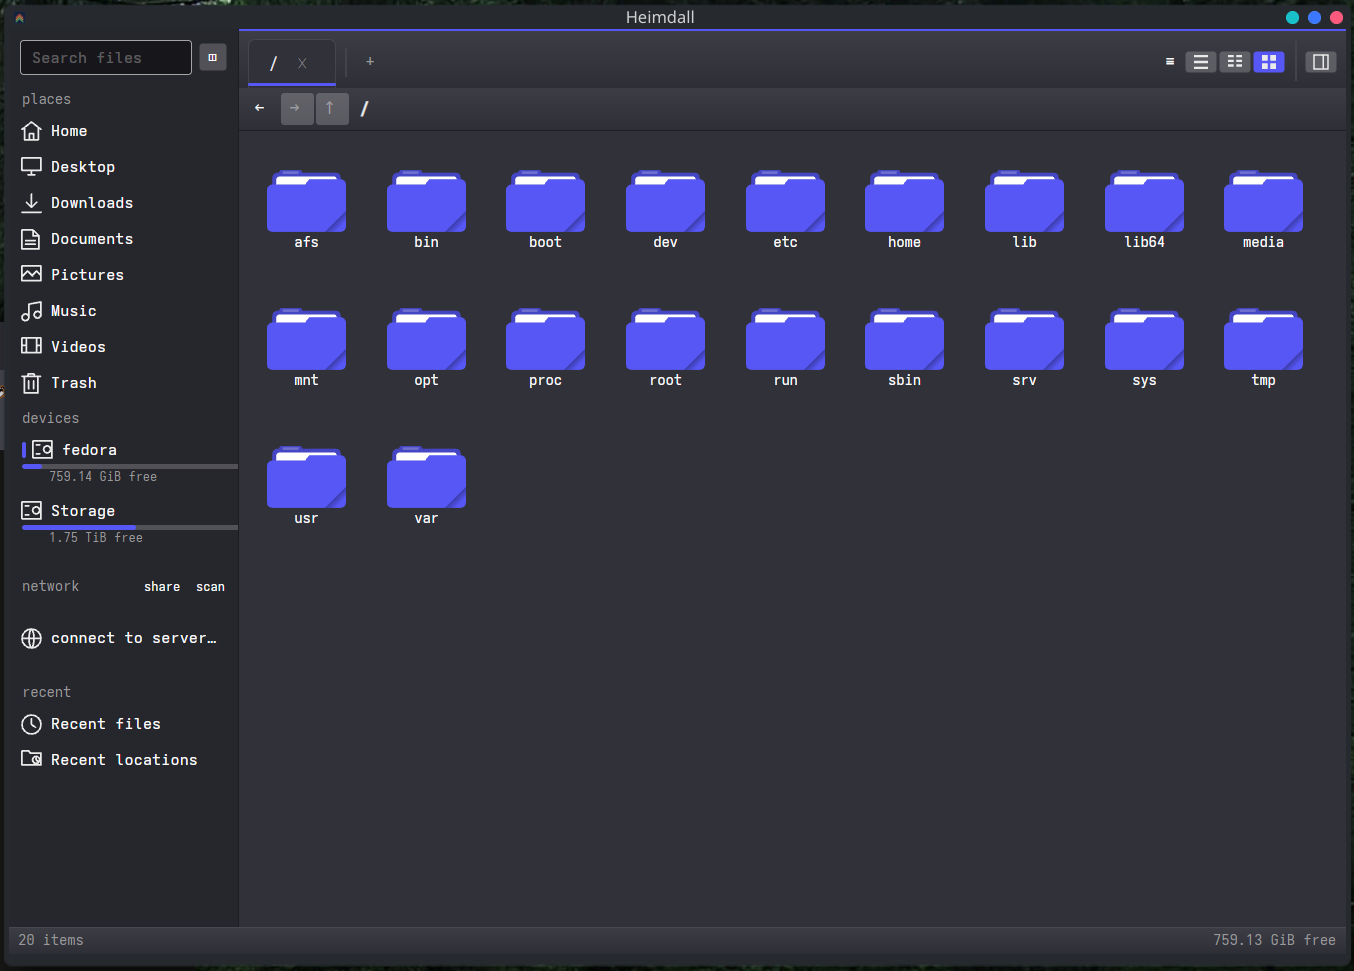
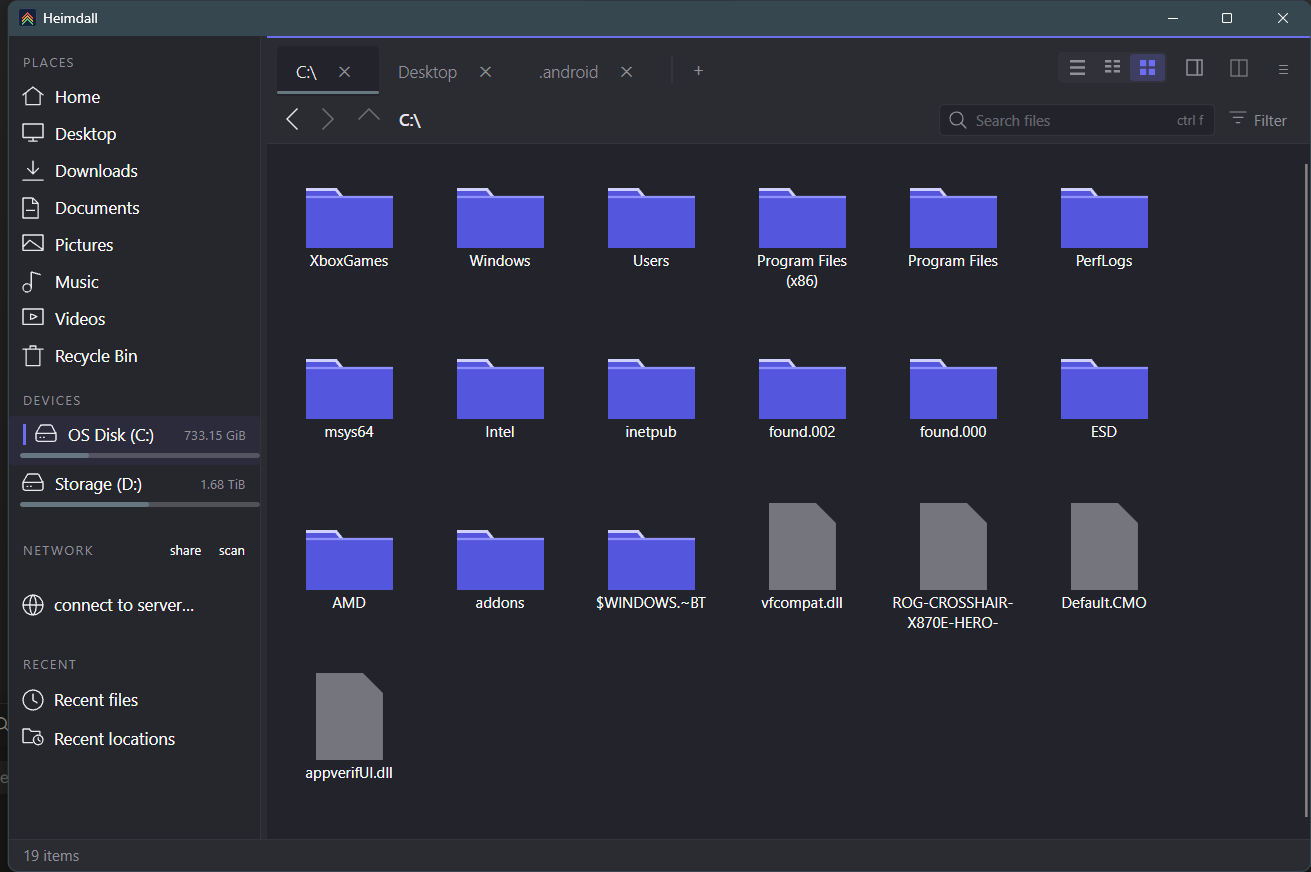
README: describe what the application is now
The document still advertised three things that no longer exist and one
that had changed underneath it.

The COLUMN STRIP section explained how to turn on "Path columns above
list". TAGS had its own section promising colour-coded tags stored as
extended attributes so they travel with the file, and appeared in three
more places besides. The details panel was said to show tags. The list
layout was described as having columns for permissions and type, both of
which were dropped when the listing went to three.

And "Fitting your desktop" described colour and typeface as pinned, with
the machinery running and then being overwritten by ApplyDesignScheme.
That was true when it was written and stopped being true when the
precedence was inverted: the bundled scheme is the default, the desktop
layers over it when asked, and a chosen font is used throughout while
sizes and dates keep the monospaced face so figures still line up.

New screenshot, because every visible thing in the old one changed:
proportional chrome, denser rows, three columns, the redrawn sidebar
icons and the Recycle Bin entry. Same framing as before — grid view at
the filesystem root — so the caption still holds and the two can be
compared directly.

Cropped to the window's own border rather than the captured rectangle. A
window capture includes the drop shadow, and the desktop showing through
it is the sort of thing that only becomes obvious once it is on a project
page.

diff --git a/README.md b/README.md
@@ -9,8 +9,8 @@
 It reads your desktop's own settings — icon theme, click behaviour, trash,
 bookmarks and file types — rather than keeping its own copy of them.
 
-Colours and typeface are currently pinned to the design reference rather than
-following your desktop; see [Fitting your desktop](#fitting-your-desktop).
+Colours and typeface default to the design reference rather than your desktop,
+and can follow it instead; see [Fitting your desktop](#fitting-your-desktop).
 Windows is newer than Linux and still has gaps — see [Status](#status).
 
 </div>
@@ -32,10 +32,6 @@ Copy or move between them from the right-click menu.
 that folder, or press `Ctrl+L` to type a path. Typing offers completions as you
 go, and `Tab` cycles through them.
 
-**Column strip.** Turn on *Path columns above list* for a horizontal strip of
-parent folders above the listing, so you can step sideways through a deep tree
-without losing your place.
-
 **Type to jump.** Start typing in any listing and the selection moves to the first
 matching name — no dialog, no search box.
 
@@ -45,9 +41,9 @@ matching name — no dialog, no search box.
 
 **Three layouts**, from the toolbar or `F8`:
 
-- **List** — one file per row, with sortable columns for size, type, permissions
-  and date. Columns drop out gracefully as the pane narrows rather than being
-  squeezed into uselessness.
+- **List** — one file per row, with sortable columns for size and date. Columns
+  drop out gracefully as the pane narrows rather than being squeezed into
+  uselessness.
 - **Compact** — names in vertical columns, for fitting a lot of files on screen.
 - **Grid** — large icons and thumbnails.
 
@@ -62,8 +58,8 @@ blown up into a blur.
 
 **Grouping** by name, size, type or date, from the right-click menu.
 
-**Details panel** (`F11`) — preview, full path, size, type, dates, permissions and
-tags for whatever is selected. In split view each side gets its own, so the panel
+**Details panel** (`F11`) — preview, full path, size, type, dates and permissions
+for whatever is selected. In split view each side gets its own, so the panel
 always describes the side you are looking at. If the window is too narrow to show
 it usefully, Heimdall can widen the window to make room and shrink it back when
 you close it.
@@ -81,10 +77,6 @@ than all appearing at the end.
 
 **Recent files** and **recent locations**, banded by day. Any entry can be
 forgotten individually, which removes the record and never the file.
-
-**Tags.** Tag any file or folder, colour-coded, reachable from the sidebar. Tags
-live on the file itself as extended attributes, so they travel with it and other
-tools can read them.
 
 **Pin a folder** with `Ctrl+D` to keep it in the sidebar.
 
@@ -160,9 +152,9 @@ Heimdall reads your desktop's configuration rather than keeping its own copy:
 
 | | |
 |---|---|
-| **Colour scheme and accent** | currently the design reference's dark palette |
+| **Colour scheme and accent** | the design reference's dark palette, or your desktop's if you ask |
 | **Icon theme** | your themed icons, with hand-drawn fallbacks where a theme has none |
-| **Font** | currently the design reference's typeface |
+| **Font** | the design reference's typeface, or any family you choose |
 | **Single or double click** | follows your desktop setting |
 | **Trash** | the standard desktop trash, shared with every other application |
 | **Bookmarks** | the same places list your other file manager uses |
@@ -170,12 +162,12 @@ Heimdall reads your desktop's configuration rather than keeping its own copy:
 
 Change your icon theme and Heimdall changes with it. Nothing needs restarting.
 
-Colour and typeface are the exception, and a deliberate one. The machinery to
-follow your scheme, accent and font live is all still there and still runs — it
-is then overwritten by `ApplyDesignScheme`, so the window matches the design
-reference exactly, in its dark palette, on every desktop and in every scheme.
-Reverting that is a one-line change, documented where it happens in
-`src/Heimdall.Ui/ThemeApplier.cs`.
+Colour and typeface are the exception, and a deliberate one: the bundled scheme
+is the default, because a file manager that repaints itself to match your desktop
+the first time you launch it is a surprise rather than a courtesy. Turn on
+*Follow desktop colours* and your scheme and accent are layered over it instead;
+choose a font in Settings and it is used throughout. Sizes and dates keep the
+monospaced face either way, so figures still line up down a column.
 
 ## Keyboard
 
@@ -237,7 +229,7 @@ UAC prompt, and it removes from *Installed apps* like anything else. The first
 page offers *Install for all users* if you would rather have it on the machine
 than the account.
 
-Uninstalling leaves your tabs, pinned places, folder views and tags where they
+Uninstalling leaves your tabs, pinned places and folder views where they
 are, under `%LOCALAPPDATA%\heimdall` — so reinstalling or upgrading picks up
 where you left off. Delete that folder by hand if you want them gone, but note
 that it also holds your settings, your recent folders and the `scripts\` folder
@@ -263,7 +255,7 @@ version numbers should not be trusted yet. Known gaps:
   updating on their own.
 - **Selection mode, configurable shortcuts and multiple windows** are not built.
 - **Windows is newer than Linux.** It browses, lists drives, opens files,
-  copies, moves, renames, recycles, tags, connects to and discovers network
+  copies, moves, renames, recycles, connects to and discovers network
   shares, serves a folder over HTTP, and follows the system light/dark mode and
   accent. The Recycle Bin is browsable, and *Restore* puts a file back where it
   came from — beside whatever has since taken the name, rather than over it.
@@ -271,9 +263,7 @@ version numbers should not be trusted yet. Known gaps:
   Linux, Heimdall can hand the query to Baloo and search inside files where KDE
   indexes them. Pins in Explorer's Quick Access are not imported, though the
   older Links and Network Shortcuts folders are. SFTP and FTP are Linux-only,
-  because Windows has no redirector for them. Tags are kept in an index under
-  `%LOCALAPPDATA%\heimdall` rather than on the file itself, so unlike on Linux
-  they do not travel with it. See [WINDOWS.md](WINDOWS.md).
+  because Windows has no redirector for them. See [WINDOWS.md](WINDOWS.md).
 
 Bugs and ideas are welcome on the
 [issue tracker](https://github.com/dkflint723/heimdall/issues).
